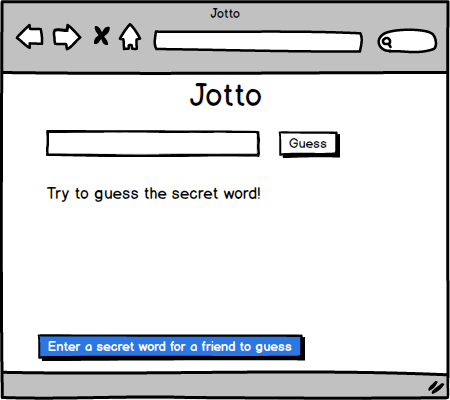
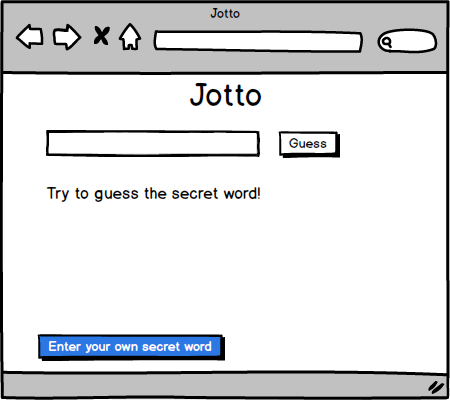
More tweaks to challenges

Changed region(s): [[0.0933, 0.81, 0.6844, 0.9]]

diff --git a/jotto/README.md b/jotto/README.md
@@ -42,10 +42,11 @@
   ![Enter Secret Word Button Wireframe](https://github.com/flyrightsister/udemy-react-testing-projects/blob/master/jotto/readme-images/enter-secret-word_wireframe.png)  
   ![Secret Word Entry Form Wireframe](https://github.com/flyrightsister/udemy-react-testing-projects/blob/master/jotto/readme-images/secret-word-entry-form_wireframe.png)  
 
-  * Add a feature where the user can input the secret word
-    * If the user wants to play against a friend
-    * In this case, use the user’s secret word, and not a word from the server
+  * Add a button for the user to input the secret word
+    * This way, the user can play against a friend
+  * After submission, the game should use the user’s secret word, not a word from the server
   * This button should disapppear once the user has nonzero `guessedWords`
+    * Should disappear whether the word came from the server or user input
 
 ### 5. Random Word Server Error
   ![Random Word Server Error Wireframe](https://github.com/flyrightsister/udemy-react-testing-projects/blob/master/jotto/readme-images/random-word-server-error_wireframe.png) 
